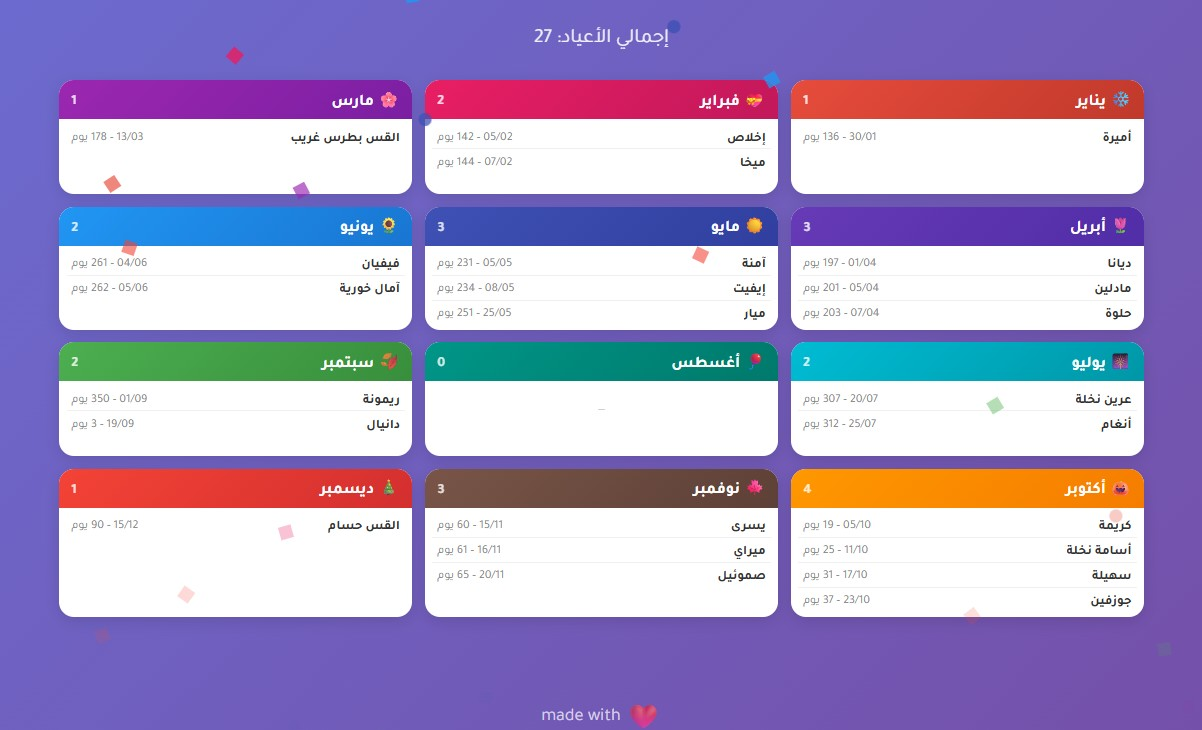
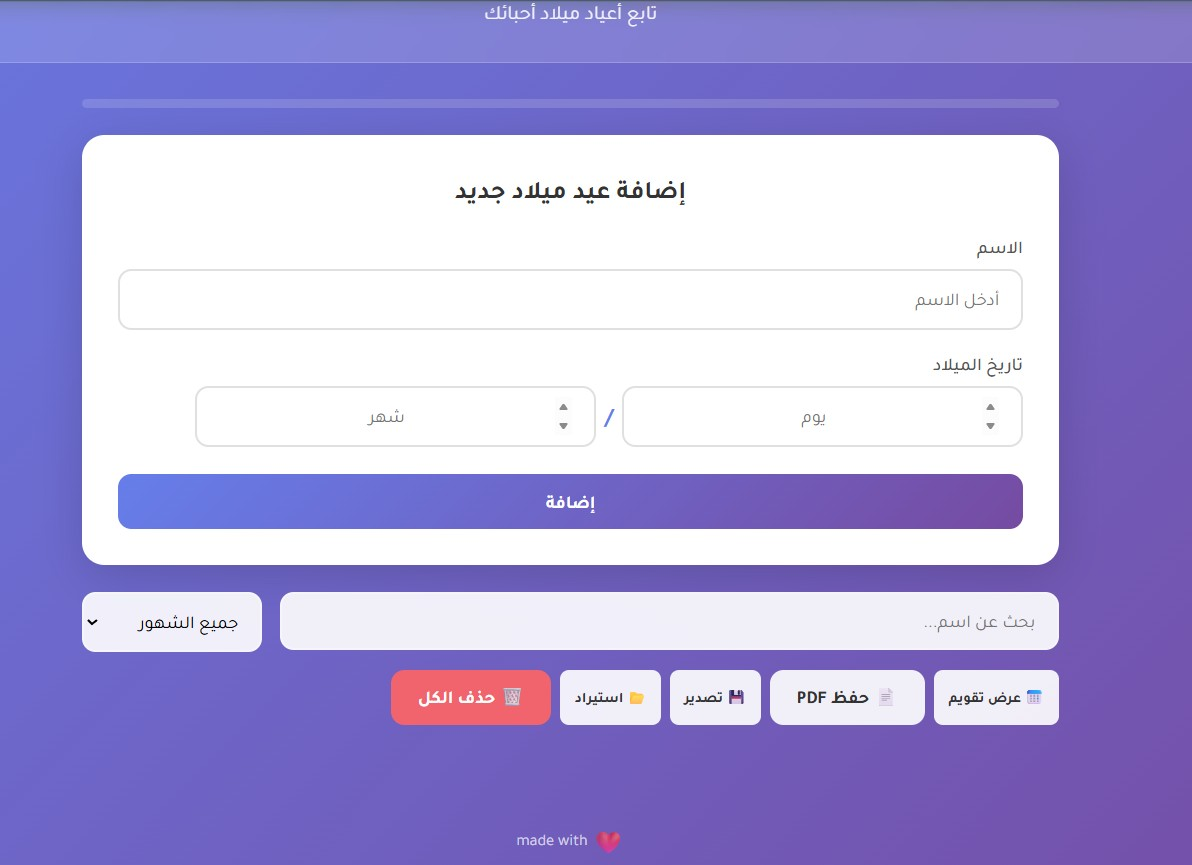
Restore default 24 names, remove auto-dedup on load

diff --git a/app.html b/app.html
@@ -228,7 +228,7 @@
     const STORAGE_KEY = 'birthdays';
     const monthNames = ['يناير','فبراير','مارس','أبريل','مايو','يونيو','يوليو','أغسطس','سبتمبر','أكتوبر','نوفمبر','ديسمبر'];
     const monthEmojis = ['❄','💝','🌸','🌷','☀','🌻','🎆','🎈','🍂','🎃','🍁','🎄'];
-    const defaultData = [];
+    const defaultData = [{"id":"d01","name":"أميرة","date":"30/01"},{"id":"d02","name":"ميخا","date":"07/02"},{"id":"d03","name":"إخلاص","date":"05/02"},{"id":"d04","name":"القس بطرس غريب","date":"13/03"},{"id":"d05","name":"ديانا","date":"01/04"},{"id":"d06","name":"مادلين","date":"05/04"},{"id":"d07","name":"حلوة","date":"07/04"},{"id":"d08","name":"آمنة","date":"05/05"},{"id":"d09","name":"إيفيت","date":"08/05"},{"id":"d10","name":"ميار","date":"25/05"},{"id":"d11","name":"فيفيان","date":"04/06"},{"id":"d12","name":"آمال خورية","date":"05/06"},{"id":"d13","name":"عرين نخلة","date":"20/07"},{"id":"d14","name":"أنغام","date":"25/07"},{"id":"d15","name":"ريمونة","date":"01/09"},{"id":"d16","name":"دانيال","date":"19/09"},{"id":"d17","name":"كريمة","date":"05/10"},{"id":"d18","name":"أسامة نخلة","date":"11/10"},{"id":"d19","name":"سهيلة","date":"17/10"},{"id":"d20","name":"جوزفين","date":"23/10"},{"id":"d21","name":"يسرى","date":"15/11"},{"id":"d22","name":"ميراي","date":"16/11"},{"id":"d23","name":"صموئيل","date":"20/11"},{"id":"d24","name":"القس حسام","date":"15/12"}];
     let appData = null;
     function generateId() { return Date.now().toString(36) + Math.random().toString(36).substr(2); }
     function loadData() {
@@ -262,7 +262,6 @@
     function save() { localStorage.setItem(STORAGE_KEY, JSON.stringify(appData)); if (calendarViewActive) renderCalendar(); }
 
     loadData();
-    dedupAll(); save();
 
     const form = document.getElementById('birthdayForm');
     const nameInput = document.getElementById('name');

diff --git a/index.html b/index.html
@@ -228,7 +228,7 @@
     const STORAGE_KEY = 'birthdays';
     const monthNames = ['يناير','فبراير','مارس','أبريل','مايو','يونيو','يوليو','أغسطس','سبتمبر','أكتوبر','نوفمبر','ديسمبر'];
     const monthEmojis = ['❄','💝','🌸','🌷','☀','🌻','🎆','🎈','🍂','🎃','🍁','🎄'];
-    const defaultData = [];
+    const defaultData = [{"id":"d01","name":"أميرة","date":"30/01"},{"id":"d02","name":"ميخا","date":"07/02"},{"id":"d03","name":"إخلاص","date":"05/02"},{"id":"d04","name":"القس بطرس غريب","date":"13/03"},{"id":"d05","name":"ديانا","date":"01/04"},{"id":"d06","name":"مادلين","date":"05/04"},{"id":"d07","name":"حلوة","date":"07/04"},{"id":"d08","name":"آمنة","date":"05/05"},{"id":"d09","name":"إيفيت","date":"08/05"},{"id":"d10","name":"ميار","date":"25/05"},{"id":"d11","name":"فيفيان","date":"04/06"},{"id":"d12","name":"آمال خورية","date":"05/06"},{"id":"d13","name":"عرين نخلة","date":"20/07"},{"id":"d14","name":"أنغام","date":"25/07"},{"id":"d15","name":"ريمونة","date":"01/09"},{"id":"d16","name":"دانيال","date":"19/09"},{"id":"d17","name":"كريمة","date":"05/10"},{"id":"d18","name":"أسامة نخلة","date":"11/10"},{"id":"d19","name":"سهيلة","date":"17/10"},{"id":"d20","name":"جوزفين","date":"23/10"},{"id":"d21","name":"يسرى","date":"15/11"},{"id":"d22","name":"ميراي","date":"16/11"},{"id":"d23","name":"صموئيل","date":"20/11"},{"id":"d24","name":"القس حسام","date":"15/12"}];
     let appData = null;
     function generateId() { return Date.now().toString(36) + Math.random().toString(36).substr(2); }
     function loadData() {
@@ -262,7 +262,6 @@
     function save() { localStorage.setItem(STORAGE_KEY, JSON.stringify(appData)); if (calendarViewActive) renderCalendar(); }
 
     loadData();
-    dedupAll(); save();
 
     const form = document.getElementById('birthdayForm');
     const nameInput = document.getElementById('name');
